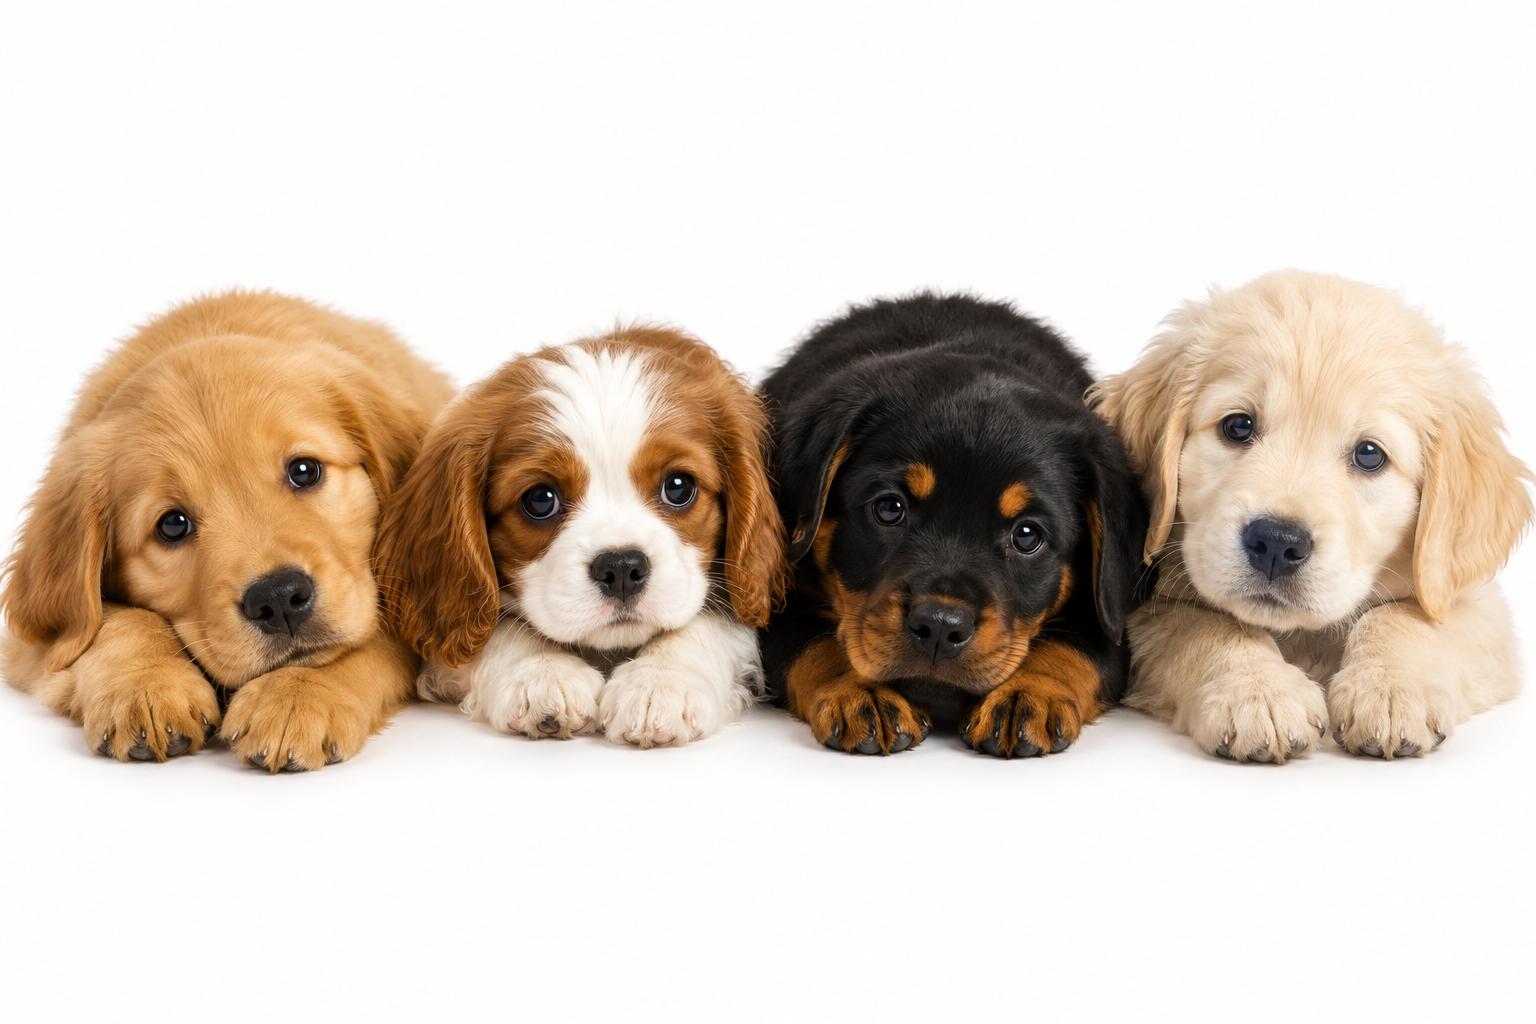
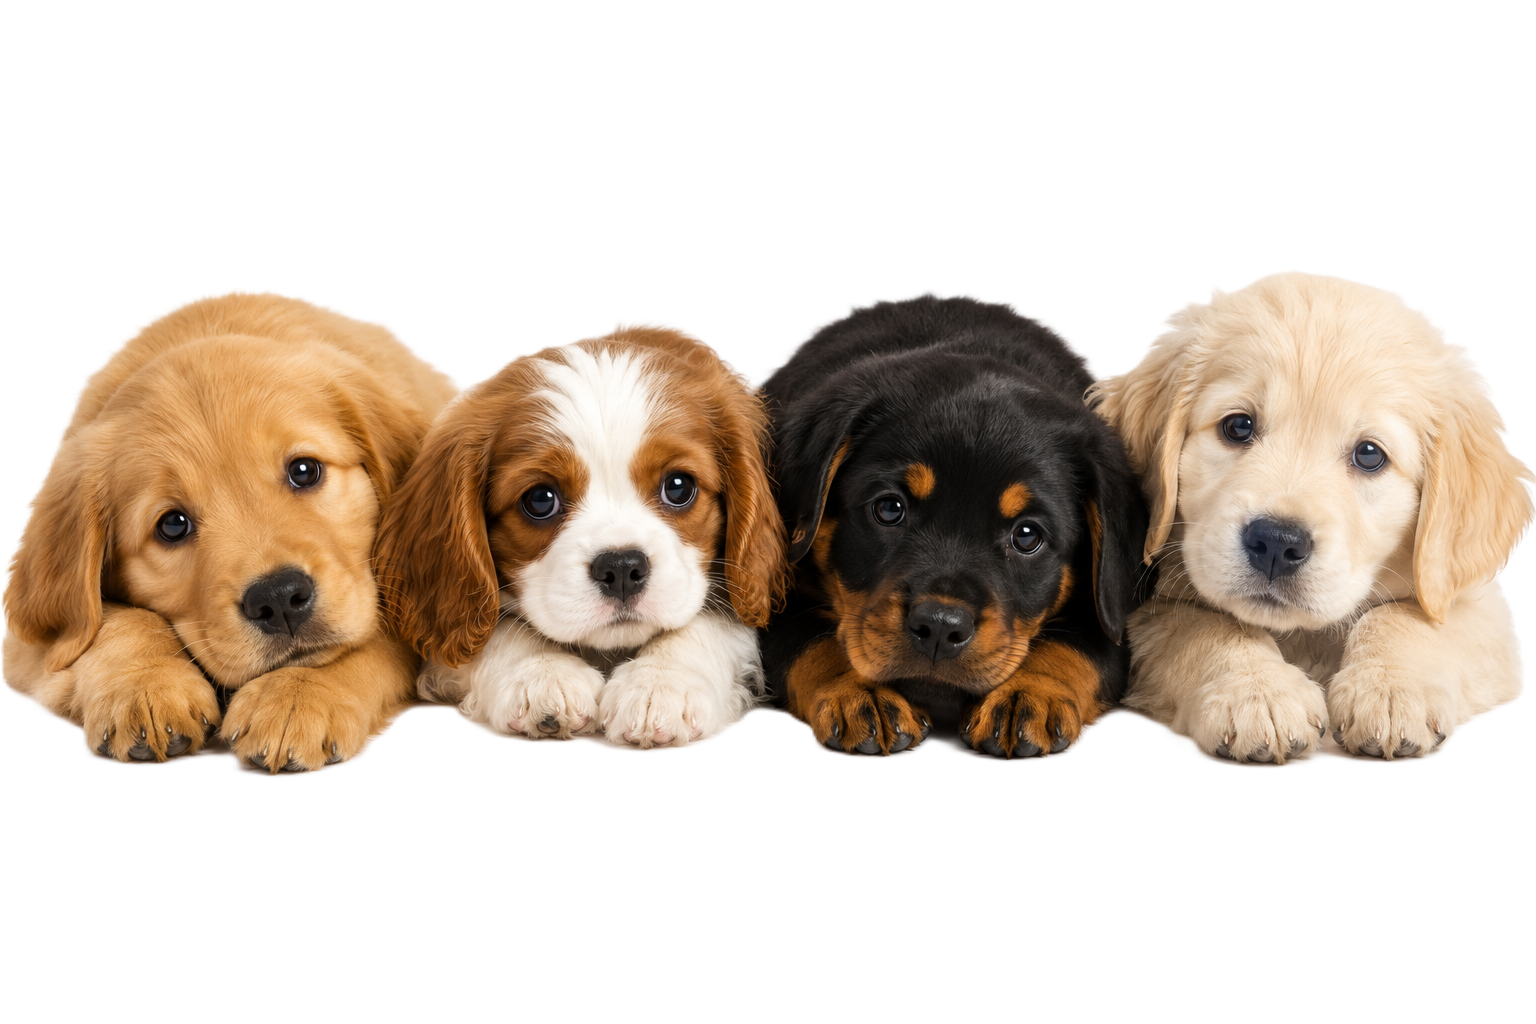
Grid-view and aside

diff --git a/app/globals.css b/app/globals.css
@@ -1,79 +1,105 @@
-
 @import url("https://fonts.googleapis.com/css2?family=Inter:wght@400;600;700&display=swap");
 
-:root {
---Main-txt: #263D33;
---card-color: white;
---background-color:#F9F9F6;
-}
-
-
+/*Global styling*/
 * {
-margin: 0;
-padding: 0;
-box-sizing: border-box;
+  margin: 0;
+  padding: 0;
+  box-sizing: border-box;
 }
 html {
-    background-color: var(--background-color);
+  background-color: var(--background-color);
 }
 
+:root {
+  --Main-txt: #263d33;
+  --card-color: white;
+  --background-color: #f5efe6;
+  --header-background: #e8dccb;
+  --button-background: #8b6a4e;
+}
+.CTA {
+  border-radius: 0.5rem;
+  width: 10rem;
+  height: 2.5rem;
+  border: solid thin;
+  background-color: var(--button-background);
+  color: white;
+}
 
-/*Fonter*/
+/*Globale fonter*/
 h1 {
-font-family: "inter", sans-serif;
-font-weight: 100;
-font-size: 2rem;
-
+  font-family: "inter", sans-serif;
+  font-weight: 100;
+  font-size: 2rem;
+  color: #8b6a4e;
 }
 h2 {
-   font-family: "inter", sans-serif;
-   font-weight: 100;
-   font-size: 1.5rem;
+  font-family: "inter", sans-serif;
+  font-weight: 100;
+  font-size: 1.5rem;
 }
 h3 {
-   font-family: "inter", sans-serif;
-   font-weight: 100;
-   font-size: 1rem;  
+  font-family: "inter", sans-serif;
+  font-weight: 100;
+  font-size: 1rem;
 }
 
-/*header*/
+/*header-seksjon*/
+
+.hero-section {
+  background-color: #e8dccb;
+  display: flex;
+  justify-content: space-around;
+}
+.hero-section-slogan {
+  font-size: 3rem;
+  font-family: fantasy;
+  color: #8b6a4e;
+}
 .hero-img {
-display: block;
-width: 100%;
-object-fit: cover;
-object-position: center;
-height: 20rem;
+  display: block;
+  width: 50%;
+  object-fit: cover;
+  object-position: center;
+  height: 20rem;
 }
 nav {
-background-color: white;
-display: flex;
-justify-content:flex-start;
-align-items: center;
-gap: 1rem;
-padding-top: 0rem;
-height: 3rem;
+  background-color: white;
+  display: flex;
+  justify-content: flex-start;
+  align-items: center;
+  gap: 1rem;
+  padding-top: 0rem;
+  height: 3rem;
 
-a {
-color: black;
-text-decoration: none;
-font-size: 1.5rem;
+  a {
+    color: black;
+    text-decoration: none;
+    font-size: 1.5rem;
+  }
 
-}
-
-a:hover{
+  a:hover {
     color: blue;
+  }
+
+  a:active {
+    transform: translateY(0.1rem);
+  }
+}
+.hero-section-text {
+  display: flex;
+  flex-direction: column;
+  justify-content: space-around;
 }
 
-a:active{
-transform: translateY(0.1rem);
-}
-}
+
+
+
 
 /*Styling for footer*/
-
 .footer {
-    background-color: white;
-    position: fixed;
-    width: 100%;
-    bottom: 0;
+  background-color: white;
+  position: fixed;
+  width: 100%;
+  bottom: 0;
 }

diff --git a/components/Header.tsx b/components/Header.tsx
@@ -1,16 +1,30 @@
 import Link from "next/link";
 import Image from "next/image";
-import heroImg from "@/assets/hero_img.png"
-import "@/app/globals.css"
+import heroImg from "@/assets/hero_img.png";
+import "@/app/globals.css";
 
 export default function Header() {
   return (
     <header>
-    <Image className="hero-img" src={heroImg} alt="Bilde av søte hunder" /> 
       <nav>
+        <h1>logo</h1>
         <Link href={"/"}>Hjem</Link>
         <Link href={"/API"}>Hunderaser</Link>
+        <Link href={"/About"}>Om siden</Link>
       </nav>
+      <section className="hero-section">
+        <div className="hero-section-text">
+          <p className="hero-section-slogan">En god start på et langt vennskap</p>
+          <p>
+            Trenger du en turkompis, en rolig liten krabat som elsker å ligge på sofaen, eller en ivrig fulejeger? I
+            rasekatalogen kan du finne den hunderasen som passer best til dine behov.
+          </p>
+
+          <button className="CTA">Gå til hundekatalogen</button>
+        </div>
+
+        <Image className="hero-img" src={heroImg} alt="Bilde av søte hunder" />
+      </section>
     </header>
   );
 }

diff --git a/app/API/page.tsx b/app/API/page.tsx
@@ -3,6 +3,7 @@ import { notFound } from "next/navigation";
 import "@/app/API/dogbreeds.css";
 import "@/app/globals.css";
 import Image from "next/image";
+import SearchInput from "@/components/Search";
 
 type DogBreeds = DogBreed[];
 export default async function DogPage() {
@@ -17,7 +18,9 @@ export default async function DogPage() {
 
   return (
     <>
-      <h1>Her kommer alle hundene</h1>
+    <section className="dog-page-container">
+      <SearchInput/>
+      <aside>Her kommer filtreringsfunksjonene</aside>
       <section className="dogBreed-section">
         {breeds.map((breed) => (
           <article className="dogBreed-card" key={breed.id}>
@@ -31,7 +34,8 @@ export default async function DogPage() {
             <button>Bli kjent med rasen</button>
           </article>
         ))}
-      </section>
+      </section></section>
+      
     </>
   );
 }

diff --git a/app/API/dogbreeds.css b/app/API/dogbreeds.css
@@ -1,5 +1,11 @@
+.dog-page-container {
+  display: grid;
+  grid-template-columns: 1fr 3fr;
+  margin: 2rem;
+}
 .dogBreed-section {
   display: grid;
+  grid-column: 2;
   grid-template-columns: repeat(3, 1fr);
   gap: 1rem;
 
@@ -29,4 +35,19 @@
     border: none;
     color: white;
   }
+}
+
+aside {
+  grid-column: 1;
+}
+
+.searchform {
+  grid-column: 1 / -1;
+}
+#searchinput {
+  height: 2.5rem;
+  margin: 2rem 0;
+  border-radius: 1rem;
+  width: 100%;
+  padding: 1rem;
 }

diff --git a/components/Search.tsx b/components/Search.tsx
@@ -1,0 +1,9 @@
+import "@/app/API/dogbreeds.css"
+export default function SearchInput(){
+return  (
+    <form className="searchform" action="">
+        <input type="text" id="searchinput" name="searchinput" placeholder="Søk etter en hunderase, for eksempel: Golden retriver"/>
+        <label htmlFor="searchinput">Søk</label>
+    </form>
+)
+}

diff --git a/app/About/page.tsx b/app/About/page.tsx
@@ -1,0 +1,8 @@
+export default function About() {
+  return (
+    <>
+      <h1>Her kommer det en side om meg</h1>
+      <h2>Blablabla</h2>
+    </>
+  );
+}
